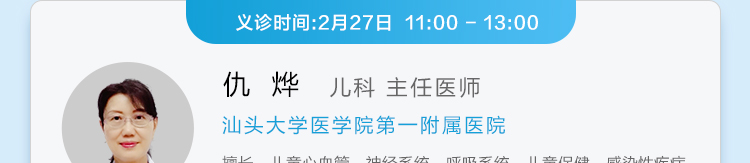
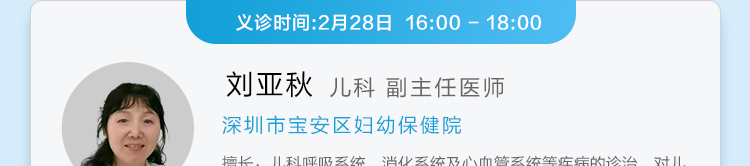
还没有写入最终的链接

diff --git a/page.html b/page.html
@@ -12,8 +12,8 @@
 	<meta http-equiv="Cache-Control" content="no-cache, no-store, must-revalidate" />
 	<meta http-equiv="Pragma" content="no-cache" />
 	<meta http-equiv="Expires" content="0" />
-	<script src="./axios.min.js?rand=0227"></script>
-	<script src="./jquery-3.4.1.min.js?rand=0227"></script>
+	<script src="./axios.min.js?rand=0228"></script>
+	<script src="./jquery-3.4.1.min.js?rand=0228"></script>
 
 	<style type="text/css">
 		*{
@@ -75,29 +75,35 @@
 
 		</div>
 		<div class="header">
-			<div><img src="./1.jpg?rand=0227"/></div>
-			<div><img src="./2.jpg?rand=0227"/></div>
-			<div><img src="./3.jpg?rand=0227"/></div>
+			<div><img src="./1.jpg?rand=0228"/></div>
+			<div><img src="./2.jpg?rand=0228"/></div>
 		</div>
 
 
 		<a href="https://www.jk.cn/srilanka/#/doctor-detail/151310440201" class="one-doctor">
-			<div class="one-doctor-1"><img src="./1-1.jpg?rand=0227"/></div>
-			<div class="one-doctor-2"><img src="./1-2.jpg?rand=0227"/></div>
-			<div class="one-doctor-2"><img src="./1-3.jpg?rand=0227"/></div>
+			<div class="one-doctor-1"><img src="./1-1.jpg?rand=0228"/></div>
+			<div class="one-doctor-2"><img src="./1-2.jpg?rand=0228"/></div>
+			<div class="one-doctor-2"><img src="./1-3.jpg?rand=0228"/></div>
 		</a>
 
 		<a href="https://www.jk.cn/srilanka/#/doctor-detail/151175090302" class="one-doctor">
-			<div class="one-doctor-1"><img src="./2-1.jpg?rand=0227"/></div>
-			<div class="one-doctor-2"><img src="./2-2.jpg?rand=0227"/></div>
-			<div class="one-doctor-2"><img src="./2-3.jpg?rand=0227"/></div>
+			<div class="one-doctor-1"><img src="./2-1.jpg?rand=0228"/></div>
+			<div class="one-doctor-2"><img src="./2-2.jpg?rand=0228"/></div>
+			<div class="one-doctor-2"><img src="./2-3.jpg?rand=0228"/></div>
 
 		</a>
 
 		<a href="https://www.jk.cn/srilanka/#/doctor-detail/151337600900" class="one-doctor">
-			<div class="one-doctor-1"><img src="./3-1.jpg?rand=0227"/></div>
-			<div class="one-doctor-2"><img src="./3-2.jpg?rand=0227"/></div>
-			<div class="one-doctor-2"><img src="./3-3.jpg?rand=0227"/></div>
+			<div class="one-doctor-1"><img src="./3-1.jpg?rand=0228"/></div>
+			<div class="one-doctor-2"><img src="./3-2.jpg?rand=0228"/></div>
+			<div class="one-doctor-2"><img src="./3-3.jpg?rand=0228"/></div>
+
+		</a>
+		
+		<a href="https://www.jk.cn/srilanka/#/doctor-detail/151337600900" class="one-doctor">
+			<div class="one-doctor-1"><img src="./4-1.jpg?rand=0228"/></div>
+			<div class="one-doctor-2"><img src="./4-2.jpg?rand=0228"/></div>
+			<div class="one-doctor-2"><img src="./4-3.jpg?rand=0228"/></div>
 
 		</a>
 	
@@ -106,7 +112,7 @@
 
 
 	</div>
-	<script src="http://res.wx.qq.com/open/js/jweixin-1.6.0.js?rand=0227"></script>
+	<script src="http://res.wx.qq.com/open/js/jweixin-1.6.0.js?rand=0228"></script>
 
 	<script>
 		$(document).ready(function(){
